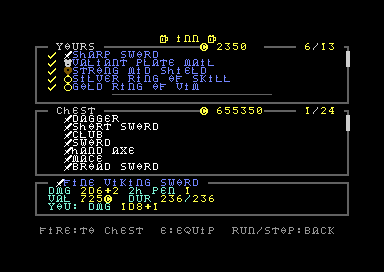
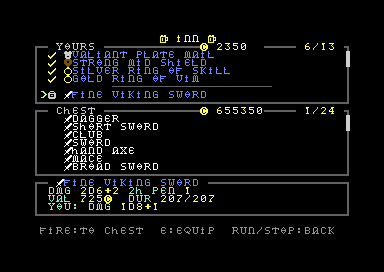
Prototipo: liste senza i posti vuoti di zaino e baule della locanda
Richiesta del committente, branch liste-compatte. Nelle liste a scorrimento (inventario, negozi, locanda, baule del
piano) le voci dello zaino (SK_PACK) e del baule della locanda (SK_CHEST) sono solo i posti occupati, in ordine. sl_vis
conta le voci visibili di un segmento e sl_map trova il posto della voce k; sl_init e sl_get li usano al posto di
sg_c/sg_a. sl_sl resta il posto vero, quindi le azioni non cambiano. Le routine stanno in GAME (ui.asm): il segmento
CORE e' pieno.

Restano interi l'equipaggiamento (5 posti fissi), la cintura (tasti 1-4 e scelta del posto della pozione dal
alchimista) e la merce.

Liste vuote: A/D non portano il cursore su una lista senza voci (sl_nav). Una lista che si svuota con il cursore sopra
lo passa all'altra (sl_z). La locanda apre sul primo oggetto dello zaino oppure, se e' vuoto, sull'arma (sl_fwd): prima
il cursore finiva oltre le voci.

Test sanity LIST-C-10..12. Wiki: interfaccia, test. Screenshot rifatti.

Changed region(s): [[0.0938, 0.1765, 0.6875, 0.3824], [0.5312, 0.7059, 0.5625, 0.7353], [0.4375, 0.7059, 0.4688, 0.7353]]

diff --git a/tests/sanity/lists/cases.py b/tests/sanity/lists/cases.py
@@ -1,0 +1,96 @@
+"""(23/11, owner's request, prototype on the branch liste-compatte) Scrolling lists without the empty slots of the pack and of
+the inn chest (sl_vis / sl_map, src/game/ui.asm): the entries of those segments are only the occupied slots, in order;
+equipment (5 fixed slots), belt (slots 1-4) and wares keep every slot. One VICE session, a new barbarian in the village."""
+from lib.c64 import Game
+from c64test import test, check
+from lib.play import new_game, key, K_I, K_RUNSTOP, INN_DOOR
+
+CHAIN = True
+
+
+def setup(ctx):
+    g = ctx["g"] = Game()
+    g.to_menu()
+    new_game(g); g.frames(3)
+
+
+def teardown(ctx):
+    if "g" in ctx: ctx["g"].close()
+
+
+def entries(g):
+    """every entry of every list of the screen: (list, entry, sl_sl), separators left out"""
+    L = g.L
+    out = []
+    for l in range(g.b(L["sl_nl"])):
+        for c in range(g.b(L["sl_n"] + l)):
+            r = g.call_keep(L["sl_get"], regs="a=%02x,x=%02x" % (c, l))
+            if not r["c"]:
+                out.append((l, c, g.b(L["sl_sl"])))
+    return out
+
+
+def check_lists(g, what):
+    L = g.L
+    pack, chest = g.mem(L["c_pack"], 8), g.mem(L["st_id"], 24)
+    e = entries(g)
+    ps = [s for _, _, s in e if s < 8]
+    cs = [s - 0x40 for _, _, s in e if 0x40 <= s < 0x40 + 24]
+    want_p = [i for i in range(8) if pack[i]]
+    check(ps == want_p, "%s: pack entries %s, occupied slots %s" % (what, ps, want_p))
+    return cs, [i for i in range(24) if chest[i]]
+
+
+@test("LIST-C-10", "inventory, pack with 3 items of 8: the pack entries are the 3 occupied slots (no '-' rows); equipment and belt keep every slot")
+def inv_compact(ctx):
+    g = ctx["g"]; L = g.L
+    g.poke(L["c_pack"], 2, 3, 4, 0, 0, 0, 0, 0)            # 3 items in the first slots (the new barbarian has none)
+    g.poke(L["c_packd"], 50, 50, 50); g.poke(L["c_packm"], 50, 50, 50)
+    key(g, K_I, 3)
+    check(not g.in_game(), "the inventory does not open")
+    check_lists(g, "inventory")
+    e = entries(g)
+    check(sum(1 for _, _, s in e if 8 <= s < 13) == 5 and sum(1 for _, _, s in e if 0x20 <= s < 0x24) == 4,
+          "equipment or belt not whole: %s" % [s for _, _, s in e])
+    key(g, K_RUNSTOP, 3)
+
+
+@test("LIST-C-11", "inn: the chest with 2 items of 24 shows 2 entries, the pack only its items")
+def inn_compact(ctx):
+    g = ctx["g"]; L = g.L
+    g.poke(L["st_id"], *([0] * 24)); g.poke(L["st_id"], 3, 5)
+    g.teleport(*INN_DOOR); g.frames(3)
+    g.press_fire(settle=3)
+    for _ in range(20):
+        if g.b(L["sl_nl"]) == 2 and not g.in_game(): break
+        g.frames(5, tmax=60)
+    cs, want = check_lists(g, "inn")
+    check(cs == want == [0, 1], "chest entries %s, occupied %s" % (cs, want))
+
+
+@test("LIST-C-12", "inn: a pack item to the empty chest (1 entry), back to the pack (chest empty again): the cursor goes back to the pack list; D on the empty chest list does nothing")
+def inn_empty(ctx):
+    from lib.play import RT
+    g = ctx["g"]; L = g.L
+    key(g, K_RUNSTOP, 3)
+    for _ in range(20):
+        if g.in_game(): break
+        g.frames(5)
+    g.poke(L["st_id"], *([0] * 24))
+    g.poke(L["c_pack"], 2, 0, 0, 0, 0, 0, 0, 0); g.poke(L["c_packd"], 50); g.poke(L["c_packm"], 50)
+    g.press_fire(settle=3)
+    for _ in range(20):
+        if not g.in_game(): break
+        g.frames(5, tmax=60)
+    check(not g.in_game() and g.b(L["sl_l"]) == 0, "the inn does not open on the pack list")
+    g.frames(1, joy=RT); g.frames(2)
+    check(g.b(L["sl_l"]) == 0, "D moved the cursor to the empty chest list")
+    g.press_fire(settle=5)                               # the pack item (cursor on it) to the chest
+    cs, want = check_lists(g, "after pack -> chest")
+    check(cs == want == [0] and g.b(L["sl_l"]) == 0, "chest entries %s (occupied %s), cursor list %d" % (cs, want, g.b(L["sl_l"])))
+    g.frames(1, joy=RT); g.frames(2)
+    check(g.b(L["sl_l"]) == 1, "D does not reach the chest list with 1 entry")
+    g.press_fire(settle=5)                               # back to the pack: the chest list is empty
+    cs, want = check_lists(g, "after chest -> pack")
+    check(cs == want == [] and g.b(L["sl_l"]) == 0 and not g.in_game(),
+          "chest %s, cursor list %d (expected the pack list 0)" % (cs, g.b(L["sl_l"])))

diff --git a/docs/wiki/interfaccia.md b/docs/wiki/interfaccia.md
@@ -66,7 +66,13 @@ Tutte le schermate a tutto schermo usano lo stesso motore, `ui_nav` (`src/game/u
   una vendita o uno spostamento va sulla prima voce con un oggetto. In liste senza oggetti si ferma su un posto vuoto dopo
   64 tentativi (`SL_NTRY`). Test `UI-LIST-10`, `UI-LIST-11`. (22/11, correzione chiesta dal committente) L'**inventario si apre con
   il cursore sull'arma** (prima voce della lista) e la finestra dall'inizio: prima il cursore partiva dal primo posto dello zaino
-  con la finestra dalla seconda riga, e spesso il `>` non si vedeva. Voci da segmenti (`SK_EQ`, `SK_PACK`, `SK_BELT`, `SK_CHEST`, `SK_WARE`). Le
+  con la finestra dalla seconda riga, e spesso il `>` non si vedeva. Voci da segmenti (`SK_EQ`, `SK_PACK`, `SK_BELT`, `SK_CHEST`, `SK_WARE`). (23/11, committente, **prototipo sul branch `liste-compatte`**) **Zaino e baule della
+  locanda senza posti vuoti**: le voci di `SK_PACK` e `SK_CHEST` sono solo i posti occupati, in ordine (`sl_vis` conta le voci
+  visibili di un segmento, `sl_map` trova il posto della voce k; in GAME, `src/game/ui.asm`, perché CORE è pieno). Il codice del
+  posto per le azioni (`sl_sl`) resta quello vero. Restano interi l'equipaggiamento (5 posti fissi), la cintura (posti 1-4 dei
+  tasti e scelta del posto della pozione) e la merce. Uno zaino vuoto non ha né voci né riga separatrice; un baule vuoto è una
+  lista senza voci: A/D non ci portano il cursore (`sl_nav`) e, se si svuota con il cursore sopra, il cursore torna all'altra
+  lista (`sl_z`); la locanda apre sulla prima voce dello zaino o, se è vuoto, sull'arma (`sl_fwd`). Test `LIST-C-10..12`. Le
   schermate a due liste (negozi, locanda, baule del piano) usano `ls2_frame`, `ls2_init`, `ls2_draw` (righe 2-7 e 10-16) e
   il riquadro dell'oggetto `iv_sel` (righe 18-22: icona e nome nel titolo; la riga 3 la sceglie la schermata, `iv_l3`).
 - **Icona della categoria** (08/11 sera, `ui_cic`): in ogni lista di oggetti (pack, wares, contents, zaino e baule

diff --git a/docs/wiki/test.md b/docs/wiki/test.md
@@ -159,7 +159,7 @@ Generato con `lab64 test all --md` (rifarlo quando si aggiunge un test).
 | `KRILL-01` | load_gfx 1 (Krill, LOAD_TO): the theme at GFX_DUN_AT (under the KERNAL, $EC6D since 15/11) equals out/work/gfx/gfx1.prg |
 | `KRILL-02` | snd_get (Krill): the song in its buffer equals out/work/snd/snd0.prg |
 
-### sanity (12)
+### sanity (15)
 
 | ID | Test |
 |---|---|
@@ -175,6 +175,9 @@ Generato con `lab64 test all --md` (rifarlo quando si aggiunge un test).
 | `QGIV-17` | page Q in a dungeon (level 1, no MENU module): the list, RUN/STOP back in the game; the stairs down still work (theme and CORE read again) |
 | `DROP-10` | (23/11) a monster hit shows its name and life in the target row; when it dies the row is empty within 2 frames (not after BTH_FR = 50) |
 | `DROP-11` | (23/11) a chest left by a dead monster (defer_drop) appears DROP_T frames later (+-2), with another monster still in contact with the hero (combat going on) |
+| `LIST-C-10` | (23/11, prototype liste-compatte) inventory, pack with 3 items of 8: the pack entries are the 3 occupied slots (no '-' rows); equipment and belt keep every slot |
+| `LIST-C-11` | (23/11, prototype) inn: the chest with 2 items of 24 shows 2 entries, the pack only its items |
+| `LIST-C-12` | (23/11, prototype) inn: a pack item to the empty chest (1 entry), back to the pack (chest empty again): the cursor goes back to the pack list; D on the empty chest list does nothing |
 
 ### regression (282)
 
